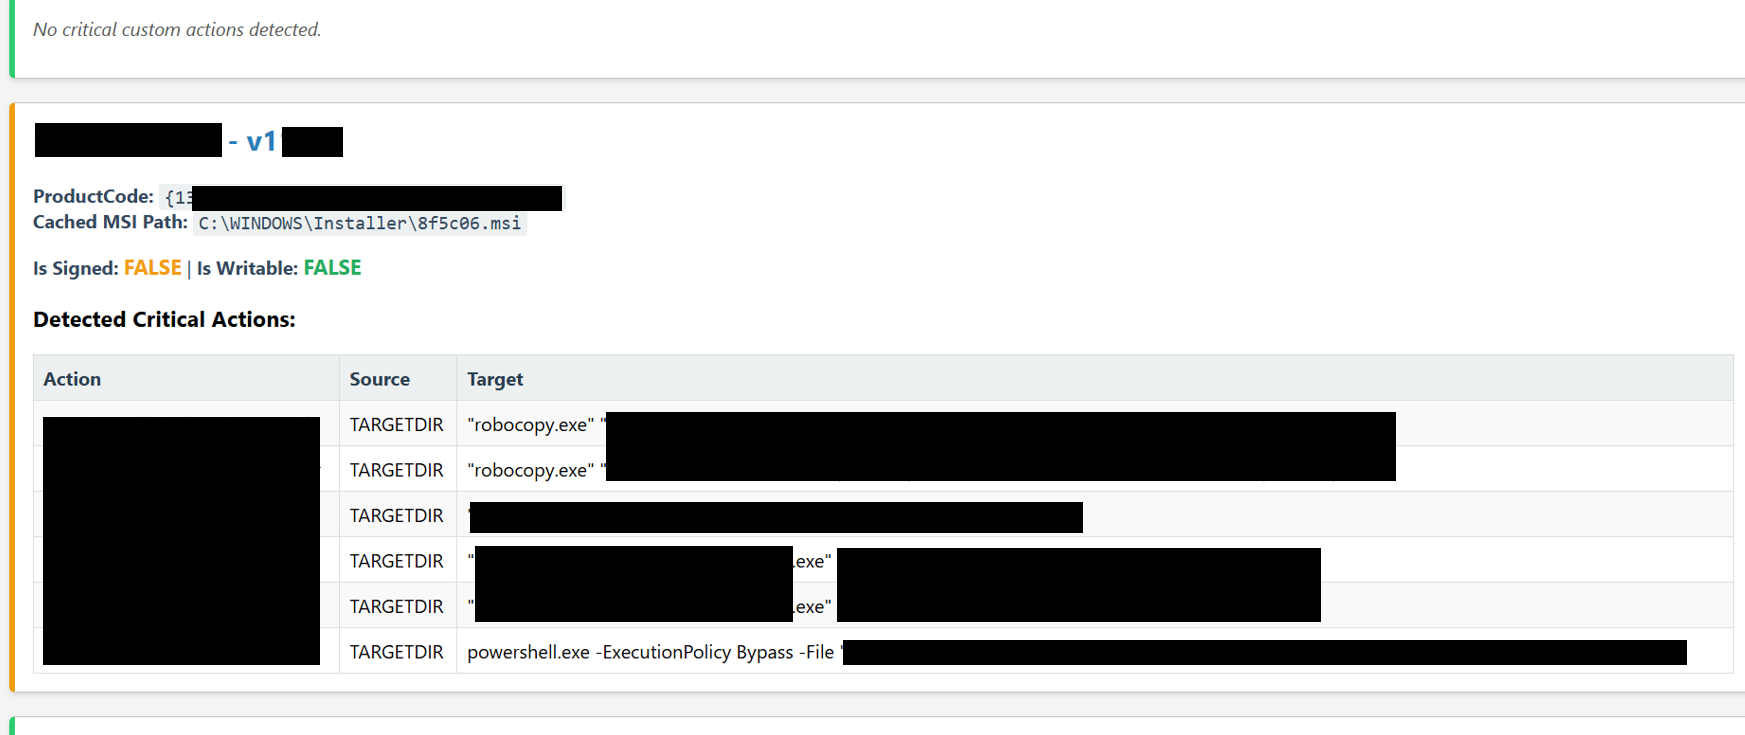
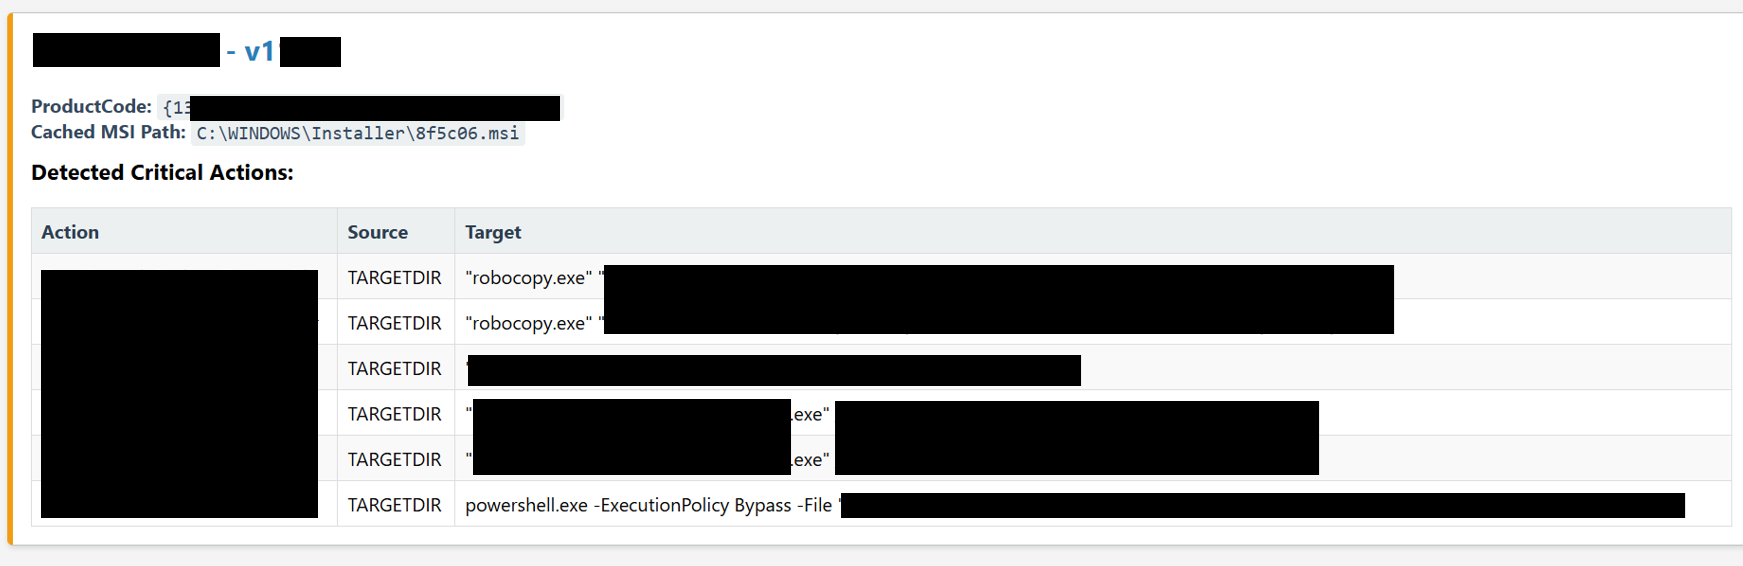
Simplified script - no need to check for isSigned or isWritable as integrity checks are performed by Installer

Changed region(s): [[0.0, 0.0, 1.0, 1.0]]

diff --git a/README.md b/README.md
@@ -8,16 +8,12 @@ The `HKEY_LOCAL_MACHINE\SOFTWARE\Policies\Microsoft\Windows\Installer\SecureRepa
 
 ## Features
 
-This script automates the entire audit process:
 -   Enumerates all installed MSI products on a system.
 -   Cross-references them with the `SecureRepairWhitelist`.
--   For **each** whitelisted package, it performs three key security checks:
-    -   **Digital Signature:** Verifies if the cached MSI is digitally signed using the `WinVerifyTrust` API. If unsigned, the integrity of the package cannot be verified and you could modify its binaries for privesc.
-    -   **File Permissions:** Checks if the MSI file in `C:\Windows\Installer` is writable. If so, you could modify it to add a Custom Action or anything else you need for privesc.
-    -   **Custom Action Analysis:** Scans for potentially dangerous `CustomActions` (those running with `NoImpersonate` between `InstallInitialize` and `InstallFinalize` that run with elevated privileges).
+-   For **each** whitelisted package, scans for potentially dangerous `CustomActions` (those running with `NoImpersonate` between `InstallInitialize` and `InstallFinalize` that run with elevated privileges).
 -   Generates a comprehensive audit report in both **TXT** and **HTML** formats.
 
-- This script could also be useful if your target system is older and doesn't have the MS patch installed. Just remove the part where the registry whitelist is cross-referenced and include all MSI packages.
+- **This script could also be useful if your target system is older and doesn't have the MS patch installed. Just remove the part where the registry whitelist is cross-referenced and include all MSI packages.**
 
 ## Sample Report
 
